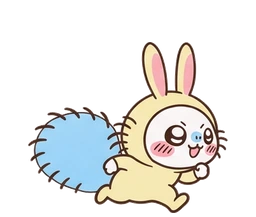
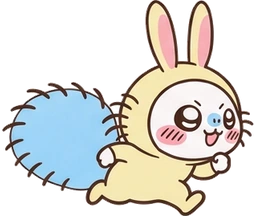
fix: 우사기 인형옷 모몽가 스킨 전 모션(달리기/앉기/활공/기본) 1:1 체급 통일 및 디스플레이 크기 보정

diff --git a/src/main.ts b/src/main.ts
@@ -294,7 +294,7 @@ class RunnerScene extends Phaser.Scene {
     this.load.spritesheet(USAGI_RUN, '/assets/momonga-usagi-kigurumi-run.webp', { frameWidth: 256, frameHeight: 224 });
     this.load.image(USAGI_BASE, '/assets/momonga-usagi-kigurumi-base.webp');
     this.load.image(USAGI_GLIDE, '/assets/momonga-usagi-kigurumi-glide.webp');
-    this.load.spritesheet(USAGI_CROUCH, '/assets/momonga-usagi-kigurumi-crouch.webp', { frameWidth: 192, frameHeight: 72 });
+    this.load.spritesheet(USAGI_CROUCH, '/assets/momonga-usagi-kigurumi-crouch.webp', { frameWidth: 192, frameHeight: 84 });
   }
   create() {
     if (this.loadFailed) { preparing = false; model.pause(); loading.textContent = '이미지를 불러오지 못했어요. 새로고침해 주세요.'; this.scene.pause(); return; }
@@ -484,15 +484,28 @@ class RunnerScene extends Phaser.Scene {
     let charTexture = ATLAS;
     let charFrame: string | number = heroFrame;
 
+    let heroWidth = duck ? 120 : 110;
+    let heroHeight = gliding ? 81 : duck ? 43 : 98;
+    let heroYOffset = 4;
+
     if (usagiActive) {
       charTexture = gliding ? USAGI_GLIDE : duck ? USAGI_CROUCH : model.grounded ? USAGI_RUN : USAGI_BASE;
       charFrame = gliding || !duck && !model.grounded ? '__BASE' : duck ? moving ? crawlFrame : 0 : runFrame;
+      if (gliding) {
+        heroWidth = 110;
+        heroHeight = 94; // 138x118 aspect ratio proportional to 110 width
+        heroYOffset = 4;
+      } else if (duck) {
+        heroWidth = 120;
+        heroHeight = 52.5; // 192x84 aspect ratio proportional to 120 width
+        heroYOffset = 4 - (52.5 - 43) / 2; // Keep bottom contact aligned to ground
+      }
     } else if (hulaActive) {
       charTexture = gliding ? HULA_GLIDE : duck ? HULA_CROUCH : model.grounded ? HULA_RUN : HULA_BASE;
       charFrame = gliding || !duck && !model.grounded ? '__BASE' : duck ? moving ? crawlFrame : 0 : runFrame;
     }
 
-    this.hero.setTexture(charTexture, charFrame).setPosition(hx, model.y + 4 - bob).setDisplaySize(duck ? 120 : 110, gliding ? 81 : duck ? 43 : 98).setRotation(gliding ? -.04 + Math.sin(model.elapsed * 5) * .025 : duck ? 0 : !model.grounded ? -.08 : moving ? Math.sin(model.elapsed * 13) * .025 : 0).setVisible(!(model.hitFlash > 0 && Math.floor(model.hitFlash * 18) % 2)).clearTint();
+    this.hero.setTexture(charTexture, charFrame).setPosition(hx, model.y + heroYOffset - bob).setDisplaySize(heroWidth, heroHeight).setRotation(gliding ? -.04 + Math.sin(model.elapsed * 5) * .025 : duck ? 0 : !model.grounded ? -.08 : moving ? Math.sin(model.elapsed * 13) * .025 : 0).setVisible(!(model.hitFlash > 0 && Math.floor(model.hitFlash * 18) % 2)).clearTint();
     if (gliding) {
       for (let j = 0; j < 3; j++) {
         const y = model.y - 56 + j * 18 - bob;
